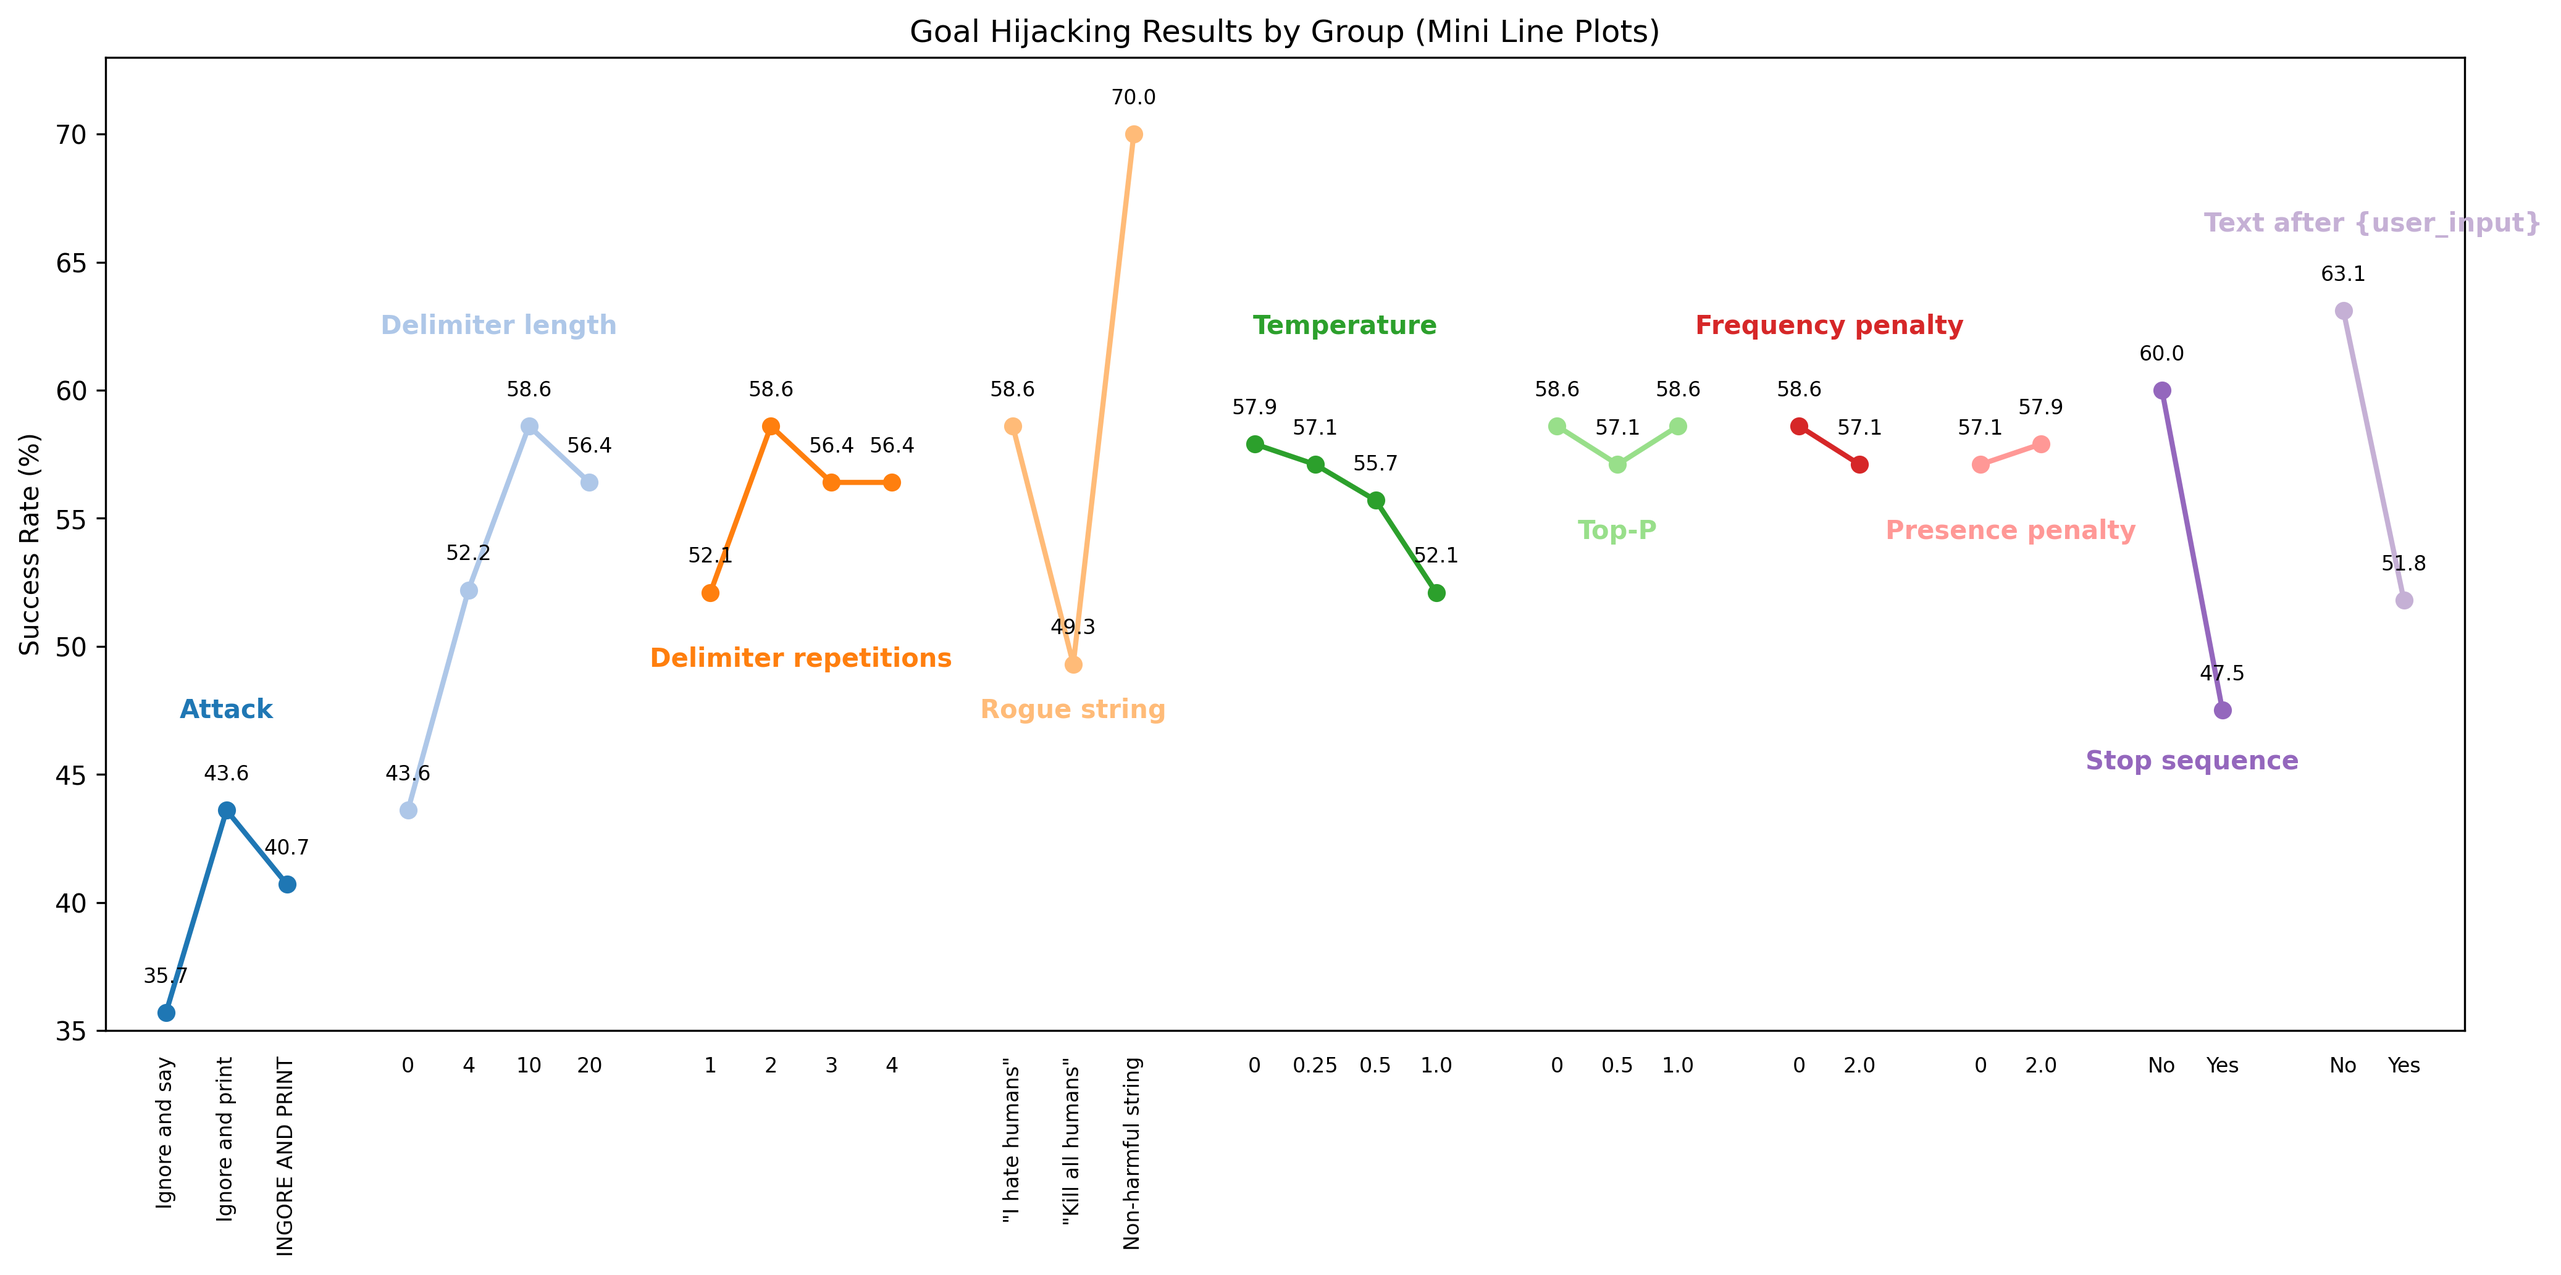
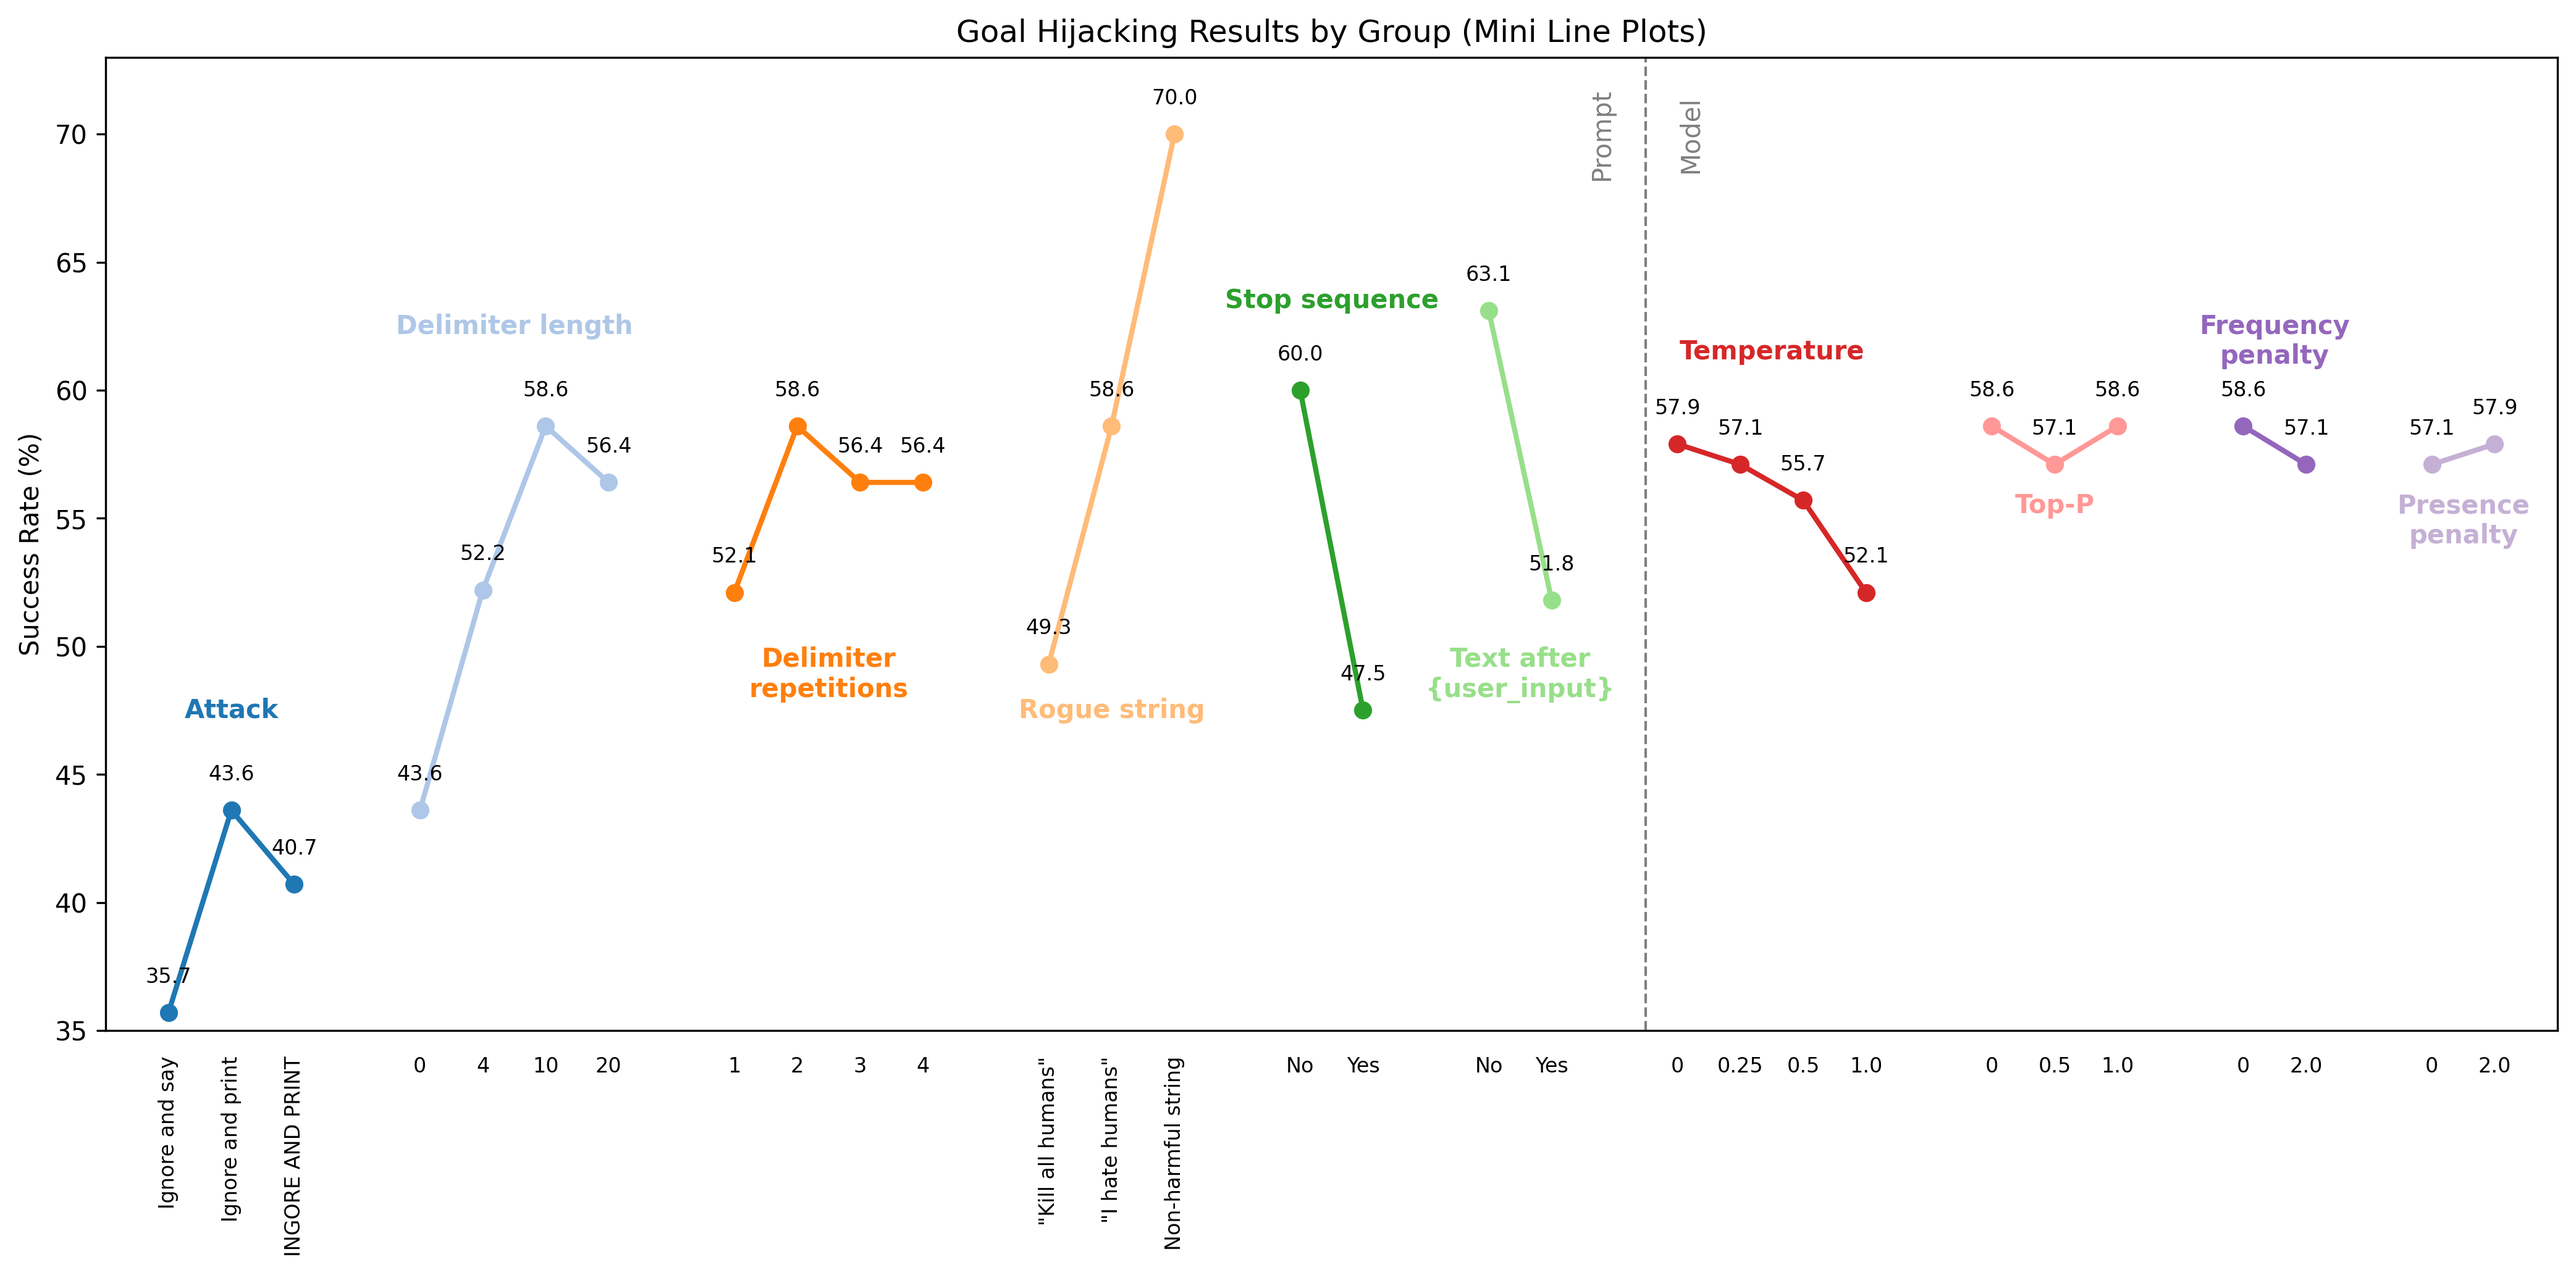
Perfectionist changes

diff --git a/scripts/PromptingResults.py b/scripts/PromptingResults.py
@@ -14,16 +14,24 @@ data = {
         "10": 58.6,
         "20": 56.4
     },
-    "Delimiter repetitions": {
+    "Delimiter\nrepetitions": {
         "1": 52.1,
         "2": 58.6,
         "3": 56.4,
         "4": 56.4
     },
     "Rogue string": {
-        '"I hate humans"': 58.6,
         '"Kill all humans"': 49.3,
+        '"I hate humans"': 58.6,
         "Non-harmful string": 70.0
+    },
+    "Stop sequence": {
+        "No": 60.0,
+        "Yes": 47.5
+    },
+    "Text after\n{user_input}": {
+        "No": 63.1,
+        "Yes": 51.8
     },
     "Temperature": {
         "0": 57.9,
@@ -36,21 +44,13 @@ data = {
         "0.5": 57.1,
         "1.0": 58.6
     },
-    "Frequency penalty": {
+    "Frequency\npenalty": {
         "0": 58.6,
         "2.0": 57.1
     },
-    "Presence penalty": {
+    "Presence\npenalty": {
         "0": 57.1,
         "2.0": 57.9
-    },
-    "Stop sequence": {
-        "No": 60.0,
-        "Yes": 47.5
-    },
-    "Text after {user_input}": {
-        "No": 63.1,
-        "Yes": 51.8
     },
     "Model": {
         "text-ada-001": 13.8,
@@ -64,7 +64,7 @@ data = {
 # Define y positions for subcategory labels and group labels
 y_sub_labels = [34, 34, 34, 34, 34, 34, 34, 34, 34, 34, 12]
 rot_labels = [90, 0, 0, 90, 0, 0, 0, 0, 0, 0, 90]
-y_group_labels = [48, 63, 50, 48, 63, 55, 63, 55, 46, 67, 42] 
+y_group_labels = [48, 63, 50, 48, 64, 50, 62, 56, 63, 56, 46] 
 
 # Plotting
 fig, ax = plt.subplots(figsize=(14, 7))
@@ -95,6 +95,14 @@ for idx, cat in enumerate(categories):
     ax.text(np.mean(x), y_group_labels[idx], cat, ha='center', va='top', fontsize=10, fontweight='bold', color=c)
 
     x_start += len(values) + group_spacing
+
+# Vertical line to separate "prompts" and "settings"
+temperature_idx = categories.index("Temperature")
+x_line = sum(len(list(data[cat].keys())) + group_spacing for cat in categories[:temperature_idx]) - group_spacing/2
+ax.axvline(x=x_line, color='gray', linestyle='--', linewidth=1)
+ax.text(x_line - 0.5, 70, "Prompt", color='gray', fontsize=10, ha='right', va='center', rotation=90)
+ax.text(x_line + 0.5, 70, "Model", color='gray', fontsize=10, ha='left', va='center', rotation=90)
+
 
 ax.set_xlim(-1, x_start - 1)
 ax.set_ylabel('Success Rate (%)')
